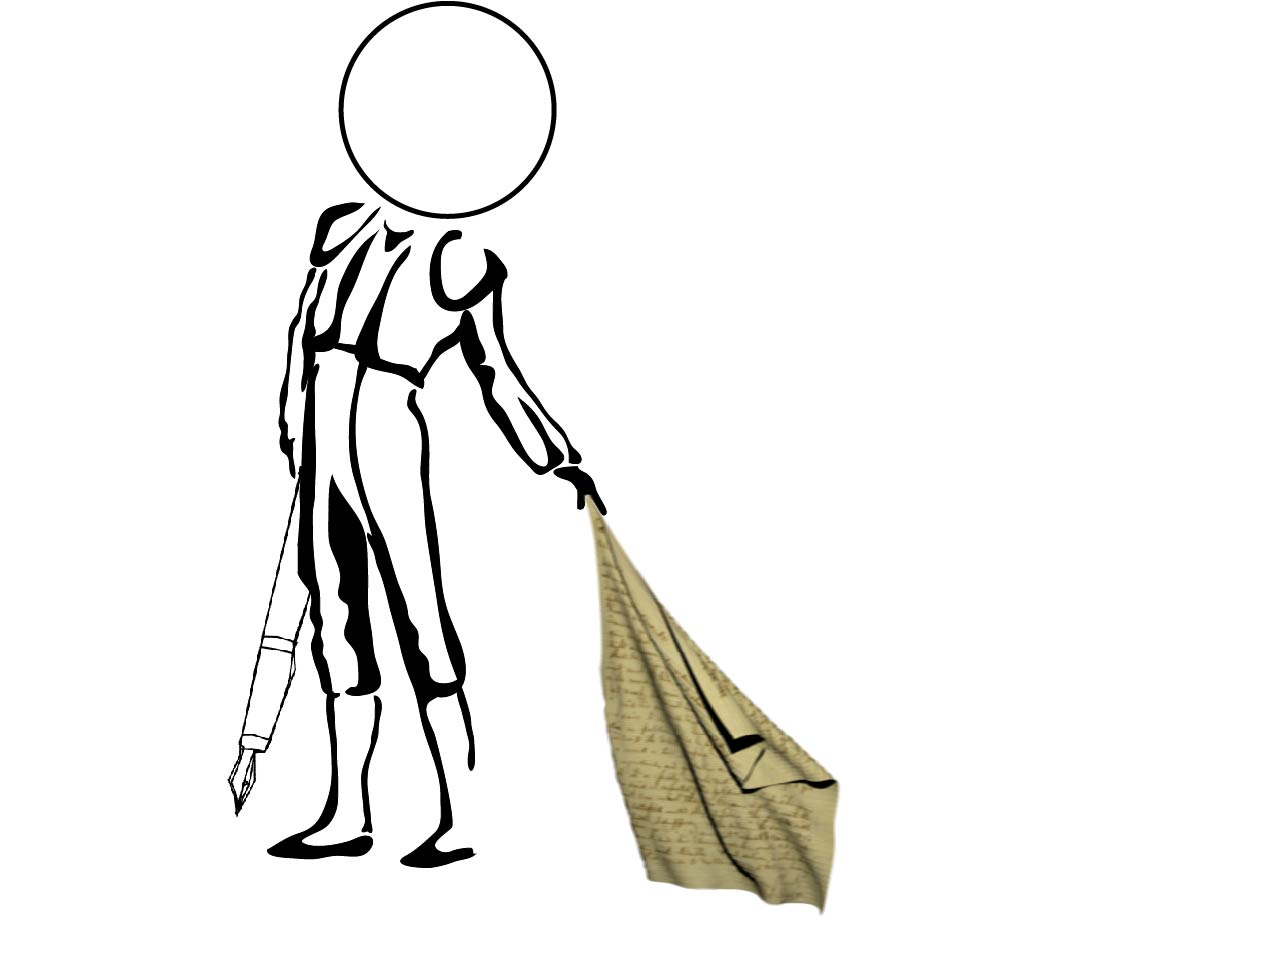
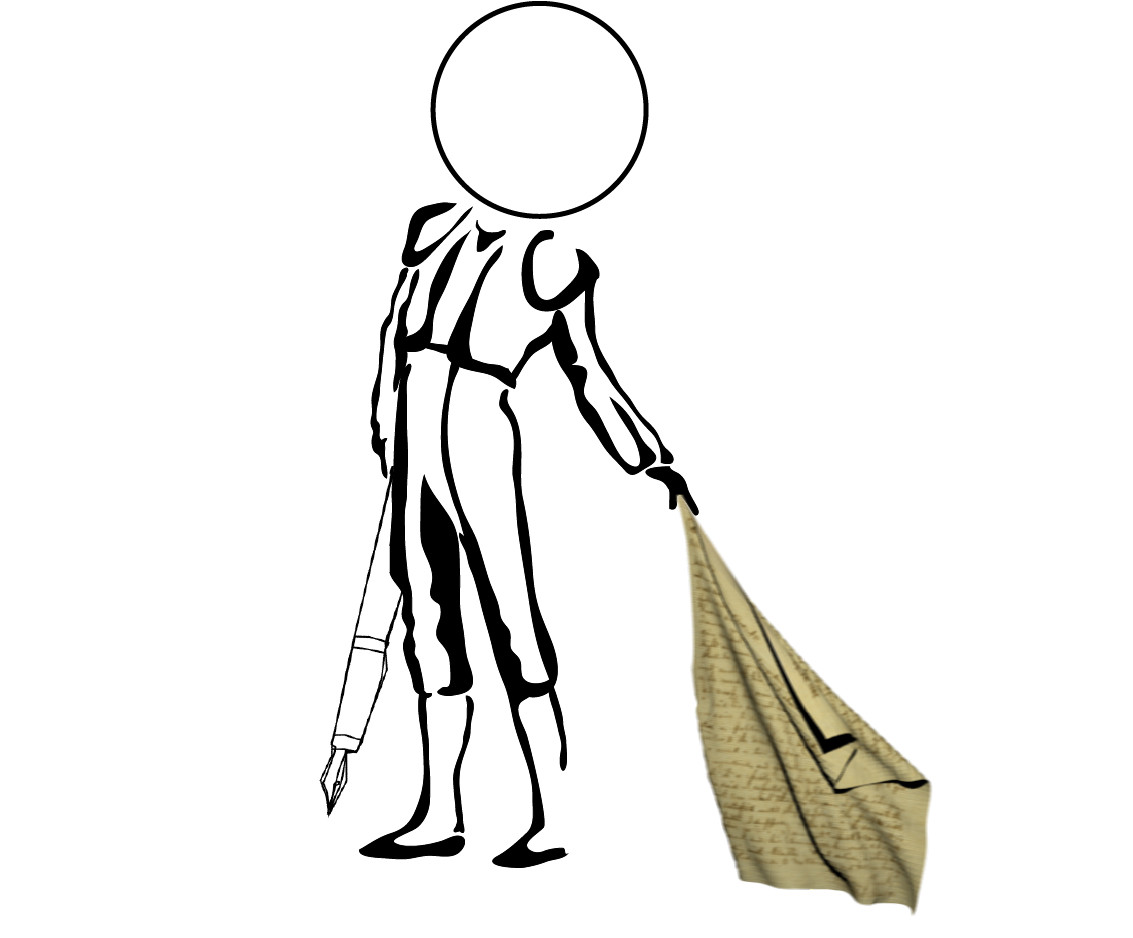
changed position

diff --git a/_sass/_jekyll-mono.scss b/_sass/_jekyll-mono.scss
@@ -93,11 +93,11 @@ button.button-primary:focus {
   background-color:$white;
   background-image: url(/images/avatar.jpg);
 	background-repeat: no-repeat;
-	background-size: 830px;
+	background-size: 730px;
 
 	height: 890px;
-	background-position-x: 620px;
-	background-position-y: 270px;
+	background-position-x: center;
+	background-position-y: 240px;
 }
 
 .intro-header .post-heading {

diff --git a/style.scss b/style.scss
@@ -152,7 +152,7 @@ img {
 //
 
 .wrapper-masthead {
-  margin-bottom: 50px;
+  margin-bottom: 20px;
 }
 
 .masthead {
